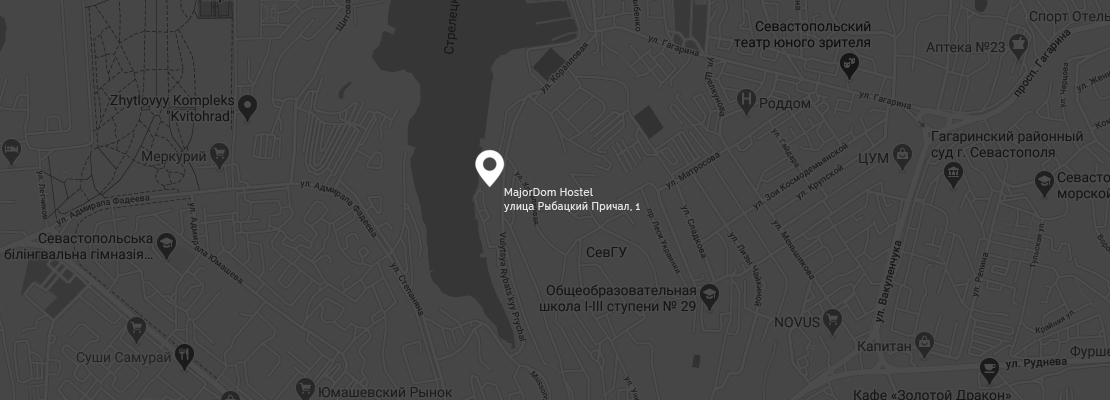
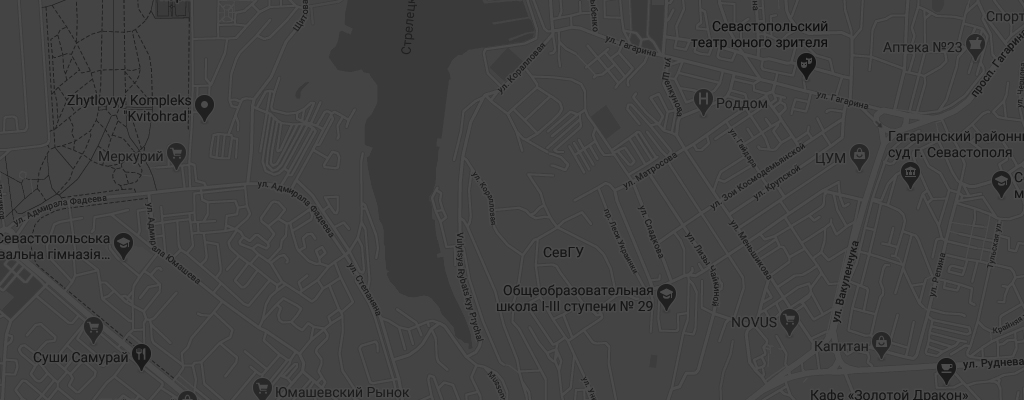
refactor: upload project

diff --git a/css/style.min.css b/css/style.min.css
@@ -1,1 +1,1 @@
-html{-webkit-box-sizing:border-box;box-sizing:border-box}*,*::after,*::before{-webkit-box-sizing:inherit;box-sizing:inherit}ul[class],ol[class]{padding:0}body,h1,h2,h3,h4,h5,h6,p,ul,ol,li,figure,figcaption,blockquote,dl,dd{margin:0}ul[class]{list-style:none}img{max-width:100%;display:block}input,button,textarea,select{margin:0;font:inherit}a{text-decoration:none}html,body{height:100%;scroll-behavior:smooth}body{min-width:320px;font-family:"Raleway", sans-serif;font-size:14px;line-height:25px;color:#333;letter-spacing:0.05em;overflow-x:hidden}a{color:#333}main{width:100%}.wrapper{margin:0 auto;width:100%;max-width:1110px}.section{margin:0 auto;padding:0;width:100%;height:100vh}.section__title{font-weight:700;font-size:24px;line-height:180%}.section__subtitle{font-size:10px;line-height:180%}.footer{padding:40px 0;background-color:#000;color:gray}.footer .footer__inner{margin:0 auto;max-width:1110px;display:-webkit-box;display:-ms-flexbox;display:flex;-webkit-box-pack:justify;-ms-flex-pack:justify;justify-content:space-between;-webkit-box-align:center;-ms-flex-align:center;align-items:center}.footer .footer__menu{text-align:right}.footer .footer-nav__list{display:-webkit-box;display:-ms-flexbox;display:flex}.footer .footer-nav__item{margin-left:40px}.footer .footer-nav__item:first-child{margin-left:0}.footer .footer-nav__link{font-size:12px;line-height:17px;color:#fff}.footer .footer__copy{padding-top:6px;font-size:12px;line-height:14px}input{padding:14px 10px;border:1px solid #333;background-color:transparent;max-width:350px;color:#fff;-webkit-transition:all 300ms;-o-transition:all 300ms;transition:all 300ms}input::-webkit-input-placeholder{font-family:"Raleway", sans-serif;font-weight:400;font-size:14px;line-height:25px;letter-spacing:0.05em;color:#ccc}input::-moz-placeholder{font-family:"Raleway", sans-serif;font-weight:400;font-size:14px;line-height:25px;letter-spacing:0.05em;color:#ccc}input:-ms-input-placeholder{font-family:"Raleway", sans-serif;font-weight:400;font-size:14px;line-height:25px;letter-spacing:0.05em;color:#ccc}input::-ms-input-placeholder{font-family:"Raleway", sans-serif;font-weight:400;font-size:14px;line-height:25px;letter-spacing:0.05em;color:#ccc}input::placeholder{font-family:"Raleway", sans-serif;font-weight:400;font-size:14px;line-height:25px;letter-spacing:0.05em;color:#ccc}input:hover{border-color:gray}input:valid{border-color:#ccc}input[type="checkbox"]{position:absolute;z-index:-1;opacity:0}input[type="checkbox"]+label{position:relative;display:block;-webkit-user-select:none;-moz-user-select:none;-ms-user-select:none;user-select:none;padding-left:22px}input[type="checkbox"]+label::before{position:absolute;content:"";top:0;left:0;width:12px;height:12px;border:1px solid #333;background-color:transparent;cursor:pointer}input[type="checkbox"]:hover+label::before{border-color:gray}input[type="checkbox"]:checked+label::before{border-color:#fff;background-color:#fff;-webkit-box-shadow:inset 0 0 0 2px #000;box-shadow:inset 0 0 0 2px #000}button,.link-btn{display:block;padding:18px 32px;border:1px solid transparent;background-color:#ccc;width:-webkit-max-content;width:-moz-max-content;width:max-content;line-height:16px;letter-spacing:0.1em;text-transform:uppercase;-webkit-transition:all 300ms;-o-transition:all 300ms;transition:all 300ms;cursor:pointer}button:hover,.link-btn:hover{background-color:#fff;color:#000}.link-btn{border:1px solid #000;background-color:#fff;color:#000}.link-btn:hover{background-color:#000;color:#fff}@-webkit-keyframes splide-loading{0%{-webkit-transform:rotateZ(0);transform:rotateZ(0)}100%{-webkit-transform:rotateZ(360deg);transform:rotateZ(360deg)}}@keyframes splide-loading{0%{-webkit-transform:rotateZ(0);transform:rotateZ(0)}100%{-webkit-transform:rotateZ(360deg);transform:rotateZ(360deg)}}.splide__container{position:relative;-webkit-box-sizing:border-box;box-sizing:border-box}.splide__list{margin:0 !important;padding:0 !important;width:-webkit-max-content;width:-moz-max-content;width:max-content;will-change:transform}.splide.is-active .splide__list{display:-webkit-box;display:-ms-flexbox;display:flex}.splide__pagination{display:-webkit-inline-box;display:-ms-inline-flexbox;display:inline-flex;-webkit-box-align:center;-ms-flex-align:center;align-items:center;width:100%;-ms-flex-wrap:wrap;flex-wrap:wrap;-webkit-box-pack:center;-ms-flex-pack:center;justify-content:center;margin:0}.splide__pagination li{list-style-type:none;display:inline-block;line-height:1;margin:0}.splide{position:relative;visibility:hidden;outline:none}.splide__slide{position:relative;-webkit-box-sizing:border-box;box-sizing:border-box;list-style-type:none !important;margin:0;outline:none;-ms-flex-negative:0;flex-shrink:0;overflow:hidden}.splide__slide img{vertical-align:bottom}.splide__slider{position:relative}.splide__spinner{position:absolute;top:0;left:0;right:0;bottom:0;margin:auto;display:inline-block;width:20px;height:20px;border-radius:50%;border:2px solid #999;border-left-color:transparent;-webkit-animation:splide-loading 1s infinite linear;animation:splide-loading 1s infinite linear}.splide__track{position:relative;z-index:0;overflow:hidden}.splide--draggable>.splide__track>.splide__list>.splide__slide{-webkit-user-select:none;-moz-user-select:none;-ms-user-select:none;user-select:none}.splide--fade>.splide__track>.splide__list{display:block}.splide--fade>.splide__track>.splide__list>.splide__slide{position:absolute;top:0;left:0;z-index:0;opacity:0}.splide--fade>.splide__track>.splide__list>.splide__slide.is-active{position:relative;z-index:1;opacity:1}.splide--rtl{direction:rtl}.splide--ttb>.splide__track>.splide__list{display:block}.splide--ttb>.splide__pagination{width:auto}.header{width:100%;height:100vh}.header .header__nav{position:absolute;content:"";left:0;right:0;top:20px;background-color:transparent;-webkit-transition:background-color 300ms;-o-transition:background-color 300ms;transition:background-color 300ms;z-index:1}.header .header__nav-wrapper{display:-webkit-box;display:-ms-flexbox;display:flex;-webkit-box-pack:justify;-ms-flex-pack:justify;justify-content:space-between;-webkit-box-align:center;-ms-flex-align:center;align-items:center;margin:0 auto;padding:20px 0;width:100%;max-width:1110px}@media screen and (max-width: 1440px), (max-device-width: 1440px){.header .header__nav-wrapper{padding:10px 0}}.header .header__nav.fixed{position:fixed;top:0;background-color:rgba(0,0,0,0.85)}.header .header-menu__list{display:-webkit-box;display:-ms-flexbox;display:flex}.header .header-menu__list .header-menu__item{margin-right:50px;line-height:140%}.header .header-menu__list .header-menu__item:last-child{margin-right:0}.header .header-menu__list .header-menu__link{position:relative;color:#fff}.header .header-menu__list .header-menu__link::before{position:absolute;content:"";bottom:-8px;right:0;width:0;height:2px;background-color:#fff;-webkit-transition:width 300ms cubic-bezier(0.25, 1, 0.5, 1);-o-transition:width 300ms cubic-bezier(0.25, 1, 0.5, 1);transition:width 300ms cubic-bezier(0.25, 1, 0.5, 1)}.header .header-menu__list .header-menu__link:hover::before{left:0;right:auto;width:100%}.header .header__caption{position:absolute;content:"";left:0;right:0;bottom:40px;margin:0 auto;padding:20px 0;width:100%;max-width:1110px;display:-webkit-box;display:-ms-flexbox;display:flex;-webkit-box-pack:justify;-ms-flex-pack:justify;justify-content:space-between;-webkit-box-align:start;-ms-flex-align:start;align-items:flex-start}.header .lang__list{display:-webkit-box;display:-ms-flexbox;display:flex}.header .lang__list .lang__item{margin-right:12px}.header .lang__list .lang__item:last-child{margin-right:0}.header .lang__list .lang__link{color:#fff}.header .lang__list .active-lang{color:gray;cursor:default}.header .header__slider{position:relative;background-color:#000;width:100%}.header .splide__slide{background-repeat:no-repeat;background-position:center;background-size:cover;height:100vh}.header .header__inner{display:-webkit-box;display:-ms-flexbox;display:flex;-webkit-box-orient:vertical;-webkit-box-direction:normal;-ms-flex-direction:column;flex-direction:column;-webkit-box-pack:center;-ms-flex-pack:center;justify-content:center;margin:0 auto;padding:120px 0;width:100%;max-width:1110px;height:100%}.header .header__title{margin-bottom:90px;font-weight:700;font-size:72px;line-height:85px;color:#fff}.header .header__btn{display:block;padding:18px 32px;background-color:#ccc;max-width:-webkit-max-content;max-width:-moz-max-content;max-width:max-content;line-height:16px;letter-spacing:0.1em;text-transform:uppercase;-webkit-transition:all 300ms;-o-transition:all 300ms;transition:all 300ms}.header .header__btn:hover{background-color:#fff;color:#000}.header .splide__pagination{position:absolute;content:"";top:50%;bottom:0;right:calc((100% - 1110px) / 2);display:-webkit-box;display:-ms-flexbox;display:flex;-webkit-box-orient:vertical;-webkit-box-direction:normal;-ms-flex-direction:column;flex-direction:column;width:-webkit-max-content;width:-moz-max-content;width:max-content;height:-webkit-max-content;height:-moz-max-content;height:max-content;gap:20px;-webkit-transform:translateY(-50%);-ms-transform:translateY(-50%);transform:translateY(-50%)}.header .splide__pagination__page{margin:0;padding:0;background-color:transparent;background-image:url(../images/icons/round.svg);background-repeat:no-repeat;background-position:center;height:18px;width:18px;-webkit-transition:background-image 200ms;-o-transition:background-image 200ms;transition:background-image 200ms}.header .splide__pagination__page:hover{background-image:url(../images/icons/circle.svg)}.header .splide__pagination__page.is-active{position:relative;background-color:transparent;background-image:url(../images/icons/circle.svg);background-repeat:no-repeat;background-position:center;display:-webkit-box;display:-ms-flexbox;display:flex;border:0}.header .splide__pagination__page.is-active::before{position:absolute;content:"";top:0;left:0;background-color:transparent;border:1px solid rgba(255,255,255,0.2);border-radius:50%;width:18px;height:18px}.header .splide__pagination__page .loading{stroke-dashoffset:0;stroke-dasharray:54;-webkit-animation:loading 10s linear;animation:loading 10s linear}@-webkit-keyframes loading{from{stroke-dashoffset:54}to{stroke-dashoffset:0}}@keyframes loading{from{stroke-dashoffset:54}to{stroke-dashoffset:0}}.social__list{display:-webkit-box;display:-ms-flexbox;display:flex;-webkit-box-align:end;-ms-flex-align:end;align-items:flex-end;-webkit-box-pack:justify;-ms-flex-pack:justify;justify-content:space-between;gap:12px;width:-webkit-max-content;width:-moz-max-content;width:max-content}.social__list .social__link{display:block;max-width:24px;max-height:24px;opacity:0.5;-webkit-transition:opacity 300ms;-o-transition:opacity 300ms;transition:opacity 300ms}.social__list .social__link:hover{opacity:1}.about,.location,.rooms,.services,.conditions{max-width:1110px}.about{position:relative;display:-webkit-box;display:-ms-flexbox;display:flex;-webkit-box-pack:justify;-ms-flex-pack:justify;justify-content:space-between;-webkit-box-align:center;-ms-flex-align:center;align-items:center}.about .about__inner{display:-webkit-box;display:-ms-flexbox;display:flex;-webkit-box-orient:vertical;-webkit-box-direction:normal;-ms-flex-direction:column;flex-direction:column}.about .about__content{margin:45px 0;display:-webkit-box;display:-ms-flexbox;display:flex;-webkit-box-orient:vertical;-webkit-box-direction:normal;-ms-flex-direction:column;flex-direction:column;-webkit-box-pack:center;-ms-flex-pack:center;justify-content:center;max-width:445px}.about .about__text{margin-bottom:25px}.about .about__text:last-child{margin-bottom:0}.about .about__image{display:-webkit-box;display:-ms-flexbox;display:flex;-ms-flex-wrap:wrap;flex-wrap:wrap;gap:19px;max-width:445px}.about .scroll-to{position:absolute;content:"";left:50%;bottom:120px;-webkit-transform:translateX(-50%);-ms-transform:translateX(-50%);transform:translateX(-50%);-webkit-animation-name:down;animation-name:down;-webkit-animation-duration:1000ms;animation-duration:1000ms;-webkit-animation-delay:1s;animation-delay:1s;-webkit-animation-iteration-count:infinite;animation-iteration-count:infinite;-webkit-animation-timing-function:cubic-bezier(0.25, 0.46, 0.45, 0.94);animation-timing-function:cubic-bezier(0.25, 0.46, 0.45, 0.94);-webkit-animation-direction:alternate;animation-direction:alternate}.about .scroll-to .scroll-to__link{display:-webkit-box;display:-ms-flexbox;display:flex;-webkit-box-orient:vertical;-webkit-box-direction:normal;-ms-flex-direction:column;flex-direction:column;-webkit-box-align:center;-ms-flex-align:center;align-items:center}@-webkit-keyframes down{from{bottom:140px;opacity:0}to{opacity:1}}@keyframes down{from{bottom:140px;opacity:0}to{opacity:1}}.location{display:-webkit-box;display:-ms-flexbox;display:flex;-webkit-box-orient:vertical;-webkit-box-direction:normal;-ms-flex-direction:column;flex-direction:column;-webkit-box-pack:center;-ms-flex-pack:center;justify-content:center}.location .location__content{padding:30px 0;-webkit-column-count:2;-moz-column-count:2;column-count:2}@media screen and (max-width: 1440px), (max-device-width: 1440px){.location .location__content{padding:20px 0}}.location .desc-box{margin:0 auto;padding:30px 0 30px 64px;background-repeat:no-repeat;background-position:left 0 top 53px;max-width:-webkit-max-content;max-width:-moz-max-content;max-width:max-content}@media screen and (max-width: 1440px), (max-device-width: 1440px){.location .desc-box{padding:10px 0 10px 64px;background-position:left 0 top 33px}}.location .desc-box span{font-weight:700;font-size:24px;line-height:43px}.location .location__map{max-height:400px}.rooms{display:-webkit-box;display:-ms-flexbox;display:flex;-webkit-box-orient:vertical;-webkit-box-direction:normal;-ms-flex-direction:column;flex-direction:column;-webkit-box-pack:center;-ms-flex-pack:center;justify-content:center}.rooms .rooms__title{padding:100px 0 50px 0;display:-webkit-box;display:-ms-flexbox;display:flex;-webkit-box-align:center;-ms-flex-align:center;align-items:center;-webkit-box-pack:justify;-ms-flex-pack:justify;justify-content:space-between}@media screen and (max-width: 1440px), (max-device-width: 1440px){.rooms .rooms__title{padding:60px 0 40px 0}}.rooms .splide__track{overflow:visible}.rooms .splide__list{gap:60px}.rooms .descr__title{font-weight:500;font-size:16px;line-height:29px;padding:20px 0 5px}@media screen and (max-width: 1440px), (max-device-width: 1440px){.rooms .descr__title{padding:10px 0 5px;line-height:22px}}.rooms .descr__list{padding-bottom:20px;-webkit-transition:all 300ms;-o-transition:all 300ms;transition:all 300ms}@media screen and (max-width: 1440px), (max-device-width: 1440px){.rooms .descr__list{display:-webkit-box;display:-ms-flexbox;display:flex;-ms-flex-wrap:wrap;flex-wrap:wrap;-webkit-box-align:end;-ms-flex-align:end;align-items:flex-end}}@media screen and (max-width: 1440px), (max-device-width: 1440px){.rooms .descr__item{position:relative;padding-right:12px;margin-right:8px;-webkit-transition:all 300ms;-o-transition:all 300ms;transition:all 300ms}.rooms .descr__item::before{position:absolute;content:"";top:50%;right:0;width:4px;height:4px;background-color:rgba(0,0,0,0.2);border-radius:50%;-webkit-transform:translateY(-50%);-ms-transform:translateY(-50%);transform:translateY(-50%)}.rooms .descr__item:last-child::before{display:none}}.rooms .splide__arrows{display:-webkit-box;display:-ms-flexbox;display:flex;-webkit-box-pack:center;-ms-flex-pack:center;justify-content:center;margin-top:20px}@media screen and (max-width: 1440px), (max-device-width: 1440px){.rooms .splide__arrows{margin-top:30px}}.rooms .splide__arrow{margin:0 10px;padding:20px;border:1px solid #fff;background-color:#fff}.rooms .splide__arrow:hover{border:1px solid #000}.rooms .splide__arrow--prev,.rooms .splide__arrow--next{background-image:url(../images/icons/arrow.svg);background-repeat:no-repeat;background-position:center}.rooms .splide__arrow--prev{-webkit-transform:rotate(180deg);-ms-transform:rotate(180deg);transform:rotate(180deg)}.rooms .splide__arrow:disabled{opacity:0.5}.rooms .splide__arrow:hover:disabled{opacity:0.5;border:1px solid transparent;cursor:not-allowed}.services{display:-webkit-box;display:-ms-flexbox;display:flex;-webkit-box-orient:vertical;-webkit-box-direction:normal;-ms-flex-direction:column;flex-direction:column;-webkit-box-pack:center;-ms-flex-pack:center;justify-content:center}.services .services__title{padding-bottom:100px;display:-webkit-box;display:-ms-flexbox;display:flex;-webkit-box-align:start;-ms-flex-align:start;align-items:flex-start;-webkit-box-pack:justify;-ms-flex-pack:justify;justify-content:space-between}@media screen and (max-width: 1440px), (max-device-width: 1440px){.services .services__title{padding:60px 0 50px}}.services .services__descr{max-width:445px}.services .services__content{-webkit-column-gap:30px;-moz-column-gap:30px;column-gap:30px;-webkit-column-count:3;-moz-column-count:3;column-count:3}.services .services__list{padding-bottom:26px;max-width:350px;-webkit-column-break-inside:avoid;-moz-column-break-inside:avoid;break-inside:avoid-column}.services .services__list:last-child{padding:0}.services .list-heading{font-weight:500;font-size:16px;line-height:29px;margin-bottom:4px}.conditions{display:-webkit-box;display:-ms-flexbox;display:flex;-webkit-box-pack:justify;-ms-flex-pack:justify;justify-content:space-between;-webkit-box-align:center;-ms-flex-align:center;align-items:center}.conditions .conditions__inner{display:-webkit-box;display:-ms-flexbox;display:flex;-webkit-box-align:start;-ms-flex-align:start;align-items:flex-start;-webkit-box-pack:justify;-ms-flex-pack:justify;justify-content:space-between;width:100%}.conditions .conditions__content{display:-webkit-box;display:-ms-flexbox;display:flex;-webkit-box-orient:vertical;-webkit-box-direction:normal;-ms-flex-direction:column;flex-direction:column;-webkit-box-align:center;-ms-flex-align:center;align-items:center;gap:60px 0;width:100%}.conditions .conditions__title{-ms-flex-item-align:start;align-self:flex-start;margin-bottom:20px}.conditions .conditions__content,.conditions .conditions__descr{max-width:445px}.conditions .conditions__descr p{margin-bottom:24px}.conditions .conditions__descr p:last-child{margin-bottom:0}.conditions .conditions-time,.conditions .conditions-old{display:-webkit-box;display:-ms-flexbox;display:flex;-webkit-box-align:center;-ms-flex-align:center;align-items:center;-ms-flex-pack:distribute;justify-content:space-around;width:100%}.conditions .desc-box span{font-weight:700;font-size:24px;line-height:43px}.conditions .desc-box span .time-sub{font-weight:700;font-size:14px;line-height:25px;text-decoration:underline}.feedback{background-image:url(../images/feedback-bg.jpg);background-repeat:no-repeat;background-position:center;background-size:cover}.feedback .feedback__wrapper{margin:0 auto;display:-webkit-box;display:-ms-flexbox;display:flex;-webkit-box-align:center;-ms-flex-align:center;align-items:center;-webkit-box-pack:center;-ms-flex-pack:center;justify-content:center;max-width:1110px;height:100%}.feedback .feedback__inner{display:-webkit-box;display:-ms-flexbox;display:flex;-webkit-box-align:start;-ms-flex-align:start;align-items:flex-start;-webkit-box-pack:justify;-ms-flex-pack:justify;justify-content:space-between;width:100%}.feedback .feedback__request,.feedback .feedback__contacts{display:-webkit-box;display:-ms-flexbox;display:flex;-webkit-box-orient:vertical;-webkit-box-direction:normal;-ms-flex-direction:column;flex-direction:column;width:100%;max-width:445px}.feedback .feedback__title{margin-bottom:50px;font-weight:500;font-size:18px;line-height:32px;color:#fff}.feedback .feedback__form{display:-webkit-box;display:-ms-flexbox;display:flex;-webkit-box-orient:vertical;-webkit-box-direction:normal;-ms-flex-direction:column;flex-direction:column;gap:25px;max-width:350px}.feedback .feedback__form-btn{margin-top:25px}.feedback .feedback__privacy{font-size:10px;line-height:14px;color:#ccc}.feedback .feedback__privacy a{color:#ccc;text-decoration:underline}.feedback .feedback__privacy a:hover{color:#fff}.feedback .contacts__content,.feedback .contacts__content a{color:#fff;font-style:normal}.feedback .contacts__content p,.feedback .contacts__content a p{margin-bottom:30px}.feedback .contacts__content p:last-child,.feedback .contacts__content a p:last-child{margin-bottom:0}.feedback .contacts__title{font-weight:500;font-size:16px;line-height:29px}.feedback .contacts__social{margin-top:50px}
+html{-webkit-box-sizing:border-box;box-sizing:border-box}*,*::after,*::before{-webkit-box-sizing:inherit;box-sizing:inherit}ul[class],ol[class]{padding:0}body,h1,h2,h3,h4,h5,h6,p,ul,ol,li,figure,figcaption,blockquote,dl,dd{margin:0}ul[class]{list-style:none}img{max-width:100%;display:block}input,button,textarea,select{margin:0;font:inherit}a{text-decoration:none}html,body{height:100%;scroll-behavior:smooth}body{min-width:320px;font-family:"Raleway", sans-serif;font-size:14px;line-height:25px;color:#333;letter-spacing:0.05em;overflow-x:hidden}a{color:#333}main{width:100%}.wrapper{margin:0 auto;width:100%;max-width:1110px}.section{margin:0 auto;padding:0;width:100%;height:100vh}.section__title{font-weight:700;font-size:24px;line-height:180%}.section__subtitle{font-size:10px;line-height:180%}.footer{padding:40px 0;background-color:#000;color:gray}.footer .footer__inner{margin:0 auto;max-width:1110px;display:-webkit-box;display:-ms-flexbox;display:flex;-webkit-box-pack:justify;-ms-flex-pack:justify;justify-content:space-between;-webkit-box-align:center;-ms-flex-align:center;align-items:center}.footer .footer__menu{text-align:right}.footer .footer-nav__list{display:-webkit-box;display:-ms-flexbox;display:flex}.footer .footer-nav__item{margin-left:40px}.footer .footer-nav__item:first-child{margin-left:0}.footer .footer-nav__link{font-size:12px;line-height:17px;color:#fff}.footer .footer__copy{padding-top:6px;font-size:12px;line-height:14px}input{padding:14px 10px;border:1px solid #333;background-color:transparent;max-width:350px;color:#fff;-webkit-transition:all 300ms;-o-transition:all 300ms;transition:all 300ms}input::-webkit-input-placeholder{font-family:"Raleway", sans-serif;font-weight:400;font-size:14px;line-height:25px;letter-spacing:0.05em;color:#ccc}input::-moz-placeholder{font-family:"Raleway", sans-serif;font-weight:400;font-size:14px;line-height:25px;letter-spacing:0.05em;color:#ccc}input:-ms-input-placeholder{font-family:"Raleway", sans-serif;font-weight:400;font-size:14px;line-height:25px;letter-spacing:0.05em;color:#ccc}input::-ms-input-placeholder{font-family:"Raleway", sans-serif;font-weight:400;font-size:14px;line-height:25px;letter-spacing:0.05em;color:#ccc}input::placeholder{font-family:"Raleway", sans-serif;font-weight:400;font-size:14px;line-height:25px;letter-spacing:0.05em;color:#ccc}input:hover{border-color:gray}input:valid{border-color:#ccc}input[type="checkbox"]{position:absolute;z-index:-1;opacity:0}input[type="checkbox"]+label{position:relative;display:block;-webkit-user-select:none;-moz-user-select:none;-ms-user-select:none;user-select:none;padding-left:22px}input[type="checkbox"]+label::before{position:absolute;content:"";top:0;left:0;width:12px;height:12px;border:1px solid #333;background-color:transparent;cursor:pointer}input[type="checkbox"]:hover+label::before{border-color:gray}input[type="checkbox"]:checked+label::before{border-color:#fff;background-color:#fff;-webkit-box-shadow:inset 0 0 0 2px #000;box-shadow:inset 0 0 0 2px #000}button,.link-btn{display:block;padding:18px 32px;border:1px solid transparent;background-color:#ccc;width:-webkit-max-content;width:-moz-max-content;width:max-content;line-height:16px;letter-spacing:0.1em;text-transform:uppercase;-webkit-transition:all 300ms;-o-transition:all 300ms;transition:all 300ms;cursor:pointer}button:hover,.link-btn:hover{background-color:#fff;color:#000}.link-btn{border:1px solid #000;background-color:#fff;color:#000}.link-btn:hover{background-color:#000;color:#fff}@-webkit-keyframes splide-loading{0%{-webkit-transform:rotateZ(0);transform:rotateZ(0)}100%{-webkit-transform:rotateZ(360deg);transform:rotateZ(360deg)}}@keyframes splide-loading{0%{-webkit-transform:rotateZ(0);transform:rotateZ(0)}100%{-webkit-transform:rotateZ(360deg);transform:rotateZ(360deg)}}.splide__container{position:relative;-webkit-box-sizing:border-box;box-sizing:border-box}.splide__list{margin:0 !important;padding:0 !important;width:-webkit-max-content;width:-moz-max-content;width:max-content;will-change:transform}.splide.is-active .splide__list{display:-webkit-box;display:-ms-flexbox;display:flex}.splide__pagination{display:-webkit-inline-box;display:-ms-inline-flexbox;display:inline-flex;-webkit-box-align:center;-ms-flex-align:center;align-items:center;width:100%;-ms-flex-wrap:wrap;flex-wrap:wrap;-webkit-box-pack:center;-ms-flex-pack:center;justify-content:center;margin:0}.splide__pagination li{list-style-type:none;display:inline-block;line-height:1;margin:0}.splide{position:relative;visibility:hidden;outline:none}.splide__slide{position:relative;-webkit-box-sizing:border-box;box-sizing:border-box;list-style-type:none !important;margin:0;outline:none;-ms-flex-negative:0;flex-shrink:0;overflow:hidden}.splide__slide img{vertical-align:bottom}.splide__slider{position:relative}.splide__spinner{position:absolute;top:0;left:0;right:0;bottom:0;margin:auto;display:inline-block;width:20px;height:20px;border-radius:50%;border:2px solid #999;border-left-color:transparent;-webkit-animation:splide-loading 1s infinite linear;animation:splide-loading 1s infinite linear}.splide__track{position:relative;z-index:0;overflow:hidden}.splide--draggable>.splide__track>.splide__list>.splide__slide{-webkit-user-select:none;-moz-user-select:none;-ms-user-select:none;user-select:none}.splide--fade>.splide__track>.splide__list{display:block}.splide--fade>.splide__track>.splide__list>.splide__slide{position:absolute;top:0;left:0;z-index:0;opacity:0}.splide--fade>.splide__track>.splide__list>.splide__slide.is-active{position:relative;z-index:1;opacity:1}.splide--rtl{direction:rtl}.splide--ttb>.splide__track>.splide__list{display:block}.splide--ttb>.splide__pagination{width:auto}.header{width:100%;height:100vh}.header .header__nav{position:absolute;content:"";left:0;right:0;top:20px;background-color:transparent;-webkit-transition:background-color 300ms;-o-transition:background-color 300ms;transition:background-color 300ms;z-index:1}.header .header__nav-wrapper{display:-webkit-box;display:-ms-flexbox;display:flex;-webkit-box-pack:justify;-ms-flex-pack:justify;justify-content:space-between;-webkit-box-align:center;-ms-flex-align:center;align-items:center;margin:0 auto;padding:20px 0;width:100%;max-width:1110px}@media screen and (max-width: 1440px), (max-device-width: 1440px){.header .header__nav-wrapper{padding:10px 0}}.header .header__nav.fixed{position:fixed;top:0;background-color:rgba(0,0,0,0.85)}.header .header-menu__list{display:-webkit-box;display:-ms-flexbox;display:flex}.header .header-menu__list .header-menu__item{margin-right:50px;line-height:140%}.header .header-menu__list .header-menu__item:last-child{margin-right:0}.header .header-menu__list .header-menu__link{position:relative;color:#fff}.header .header-menu__list .header-menu__link::before{position:absolute;content:"";bottom:-8px;right:0;width:0;height:2px;background-color:#fff;-webkit-transition:width 300ms cubic-bezier(0.25, 1, 0.5, 1);-o-transition:width 300ms cubic-bezier(0.25, 1, 0.5, 1);transition:width 300ms cubic-bezier(0.25, 1, 0.5, 1)}.header .header-menu__list .header-menu__link:hover::before{left:0;right:auto;width:100%}.header .header__caption{position:absolute;content:"";left:0;right:0;bottom:40px;margin:0 auto;padding:20px 0;width:100%;max-width:1110px;display:-webkit-box;display:-ms-flexbox;display:flex;-webkit-box-pack:justify;-ms-flex-pack:justify;justify-content:space-between;-webkit-box-align:start;-ms-flex-align:start;align-items:flex-start}.header .lang__list{display:-webkit-box;display:-ms-flexbox;display:flex}.header .lang__list .lang__item{margin-right:12px}.header .lang__list .lang__item:last-child{margin-right:0}.header .lang__list .lang__link{color:#fff}.header .lang__list .active-lang{color:gray;cursor:default}.header .header__slider{position:relative;background-color:#000;width:100%}.header .splide__slide{background-repeat:no-repeat;background-position:center;background-size:cover;height:100vh}.header .header__inner{display:-webkit-box;display:-ms-flexbox;display:flex;-webkit-box-orient:vertical;-webkit-box-direction:normal;-ms-flex-direction:column;flex-direction:column;-webkit-box-pack:center;-ms-flex-pack:center;justify-content:center;margin:0 auto;padding:120px 0;width:100%;max-width:1110px;height:100%}.header .header__title{margin-bottom:90px;font-weight:700;font-size:72px;line-height:85px;color:#fff}.header .header__btn{display:block;padding:18px 32px;background-color:#ccc;max-width:-webkit-max-content;max-width:-moz-max-content;max-width:max-content;line-height:16px;letter-spacing:0.1em;text-transform:uppercase;-webkit-transition:all 300ms;-o-transition:all 300ms;transition:all 300ms}.header .header__btn:hover{background-color:#fff;color:#000}.header .splide__pagination{position:absolute;content:"";top:50%;bottom:0;right:calc((100% - 1110px) / 2);display:-webkit-box;display:-ms-flexbox;display:flex;-webkit-box-orient:vertical;-webkit-box-direction:normal;-ms-flex-direction:column;flex-direction:column;width:-webkit-max-content;width:-moz-max-content;width:max-content;height:-webkit-max-content;height:-moz-max-content;height:max-content;gap:20px;-webkit-transform:translateY(-50%);-ms-transform:translateY(-50%);transform:translateY(-50%)}.header .splide__pagination__page{margin:0;padding:0;background-color:transparent;background-image:url(../images/icons/round.svg);background-repeat:no-repeat;background-position:center;height:18px;width:18px;-webkit-transition:background-image 200ms;-o-transition:background-image 200ms;transition:background-image 200ms}.header .splide__pagination__page:hover{background-image:url(../images/icons/circle.svg)}.header .splide__pagination__page.is-active{position:relative;background-color:transparent;background-image:url(../images/icons/circle.svg);background-repeat:no-repeat;background-position:center;display:-webkit-box;display:-ms-flexbox;display:flex;border:0}.header .splide__pagination__page.is-active::before{position:absolute;content:"";top:0;left:0;background-color:transparent;border:1px solid rgba(255,255,255,0.2);border-radius:50%;width:18px;height:18px}.header .splide__pagination__page .loading{stroke-dashoffset:0;stroke-dasharray:54;-webkit-animation:loading 10s linear;animation:loading 10s linear}@-webkit-keyframes loading{from{stroke-dashoffset:54}to{stroke-dashoffset:0}}@keyframes loading{from{stroke-dashoffset:54}to{stroke-dashoffset:0}}.social__list{display:-webkit-box;display:-ms-flexbox;display:flex;-webkit-box-align:end;-ms-flex-align:end;align-items:flex-end;-webkit-box-pack:justify;-ms-flex-pack:justify;justify-content:space-between;gap:12px;width:-webkit-max-content;width:-moz-max-content;width:max-content}.social__list .social__link{display:block;max-width:24px;max-height:24px;opacity:0.5;-webkit-transition:opacity 300ms;-o-transition:opacity 300ms;transition:opacity 300ms}.social__list .social__link:hover{opacity:1}.about,.location,.rooms,.services,.conditions{max-width:1110px}.about{position:relative;display:-webkit-box;display:-ms-flexbox;display:flex;-webkit-box-pack:justify;-ms-flex-pack:justify;justify-content:space-between;-webkit-box-align:center;-ms-flex-align:center;align-items:center}.about .about__inner{display:-webkit-box;display:-ms-flexbox;display:flex;-webkit-box-orient:vertical;-webkit-box-direction:normal;-ms-flex-direction:column;flex-direction:column}.about .about__content{margin:45px 0;display:-webkit-box;display:-ms-flexbox;display:flex;-webkit-box-orient:vertical;-webkit-box-direction:normal;-ms-flex-direction:column;flex-direction:column;-webkit-box-pack:center;-ms-flex-pack:center;justify-content:center;max-width:445px}.about .about__text{margin-bottom:25px}.about .about__text:last-child{margin-bottom:0}.about .about__image{display:-webkit-box;display:-ms-flexbox;display:flex;-ms-flex-wrap:wrap;flex-wrap:wrap;gap:19px;max-width:445px}.about .scroll-to{position:absolute;content:"";left:50%;bottom:120px;-webkit-transform:translateX(-50%);-ms-transform:translateX(-50%);transform:translateX(-50%);-webkit-animation-name:down;animation-name:down;-webkit-animation-duration:1000ms;animation-duration:1000ms;-webkit-animation-delay:1s;animation-delay:1s;-webkit-animation-iteration-count:infinite;animation-iteration-count:infinite;-webkit-animation-timing-function:cubic-bezier(0.25, 0.46, 0.45, 0.94);animation-timing-function:cubic-bezier(0.25, 0.46, 0.45, 0.94);-webkit-animation-direction:alternate;animation-direction:alternate}.about .scroll-to .scroll-to__link{display:-webkit-box;display:-ms-flexbox;display:flex;-webkit-box-orient:vertical;-webkit-box-direction:normal;-ms-flex-direction:column;flex-direction:column;-webkit-box-align:center;-ms-flex-align:center;align-items:center}@-webkit-keyframes down{from{bottom:140px;opacity:0}to{opacity:1}}@keyframes down{from{bottom:140px;opacity:0}to{opacity:1}}.location{display:-webkit-box;display:-ms-flexbox;display:flex;-webkit-box-orient:vertical;-webkit-box-direction:normal;-ms-flex-direction:column;flex-direction:column;-webkit-box-pack:center;-ms-flex-pack:center;justify-content:center}.location .location__content{padding:30px 0;-webkit-column-count:2;-moz-column-count:2;column-count:2}@media screen and (max-width: 1440px), (max-device-width: 1440px){.location .location__content{padding:20px 0}}.location .desc-box{margin:0 auto;padding:30px 0 30px 64px;background-repeat:no-repeat;background-position:left 0 top 53px;max-width:-webkit-max-content;max-width:-moz-max-content;max-width:max-content}@media screen and (max-width: 1440px), (max-device-width: 1440px){.location .desc-box{padding:10px 0 10px 64px;background-position:left 0 top 33px}}.location .desc-box span{font-weight:700;font-size:24px;line-height:43px}.location .location__map{position:relative;max-height:400px}.location .location__map .location__map-target{position:absolute;content:"";top:185px;left:460px;font-size:10px;line-height:14px;color:#fff}.location .location__map .location__map-target::before{position:absolute;content:"";bottom:75%;right:90%;width:48px;height:48px;background-image:url(../images/icons/location.svg);background-repeat:no-repeat;background-position:center;background-size:cover}.rooms{display:-webkit-box;display:-ms-flexbox;display:flex;-webkit-box-orient:vertical;-webkit-box-direction:normal;-ms-flex-direction:column;flex-direction:column;-webkit-box-pack:center;-ms-flex-pack:center;justify-content:center}.rooms .rooms__title{padding:100px 0 50px 0;display:-webkit-box;display:-ms-flexbox;display:flex;-webkit-box-align:center;-ms-flex-align:center;align-items:center;-webkit-box-pack:justify;-ms-flex-pack:justify;justify-content:space-between}@media screen and (max-width: 1440px), (max-device-width: 1440px){.rooms .rooms__title{padding:60px 0 40px 0}}.rooms .splide__track{overflow:visible}.rooms .splide__list{gap:60px}.rooms .descr__title{font-weight:500;font-size:16px;line-height:29px;padding:20px 0 5px}@media screen and (max-width: 1440px), (max-device-width: 1440px){.rooms .descr__title{padding:10px 0 5px;line-height:22px}}.rooms .descr__list{padding-bottom:20px;-webkit-transition:all 300ms;-o-transition:all 300ms;transition:all 300ms}@media screen and (max-width: 1440px), (max-device-width: 1440px){.rooms .descr__list{display:-webkit-box;display:-ms-flexbox;display:flex;-ms-flex-wrap:wrap;flex-wrap:wrap;-webkit-box-align:end;-ms-flex-align:end;align-items:flex-end}}@media screen and (max-width: 1440px), (max-device-width: 1440px){.rooms .descr__item{position:relative;padding-right:12px;margin-right:8px;-webkit-transition:all 300ms;-o-transition:all 300ms;transition:all 300ms}.rooms .descr__item::before{position:absolute;content:"";top:50%;right:0;width:4px;height:4px;background-color:rgba(0,0,0,0.2);border-radius:50%;-webkit-transform:translateY(-50%);-ms-transform:translateY(-50%);transform:translateY(-50%)}.rooms .descr__item:last-child::before{display:none}}.rooms .splide__arrows{display:-webkit-box;display:-ms-flexbox;display:flex;-webkit-box-pack:center;-ms-flex-pack:center;justify-content:center;margin-top:20px}@media screen and (max-width: 1440px), (max-device-width: 1440px){.rooms .splide__arrows{margin-top:30px}}.rooms .splide__arrow{margin:0 10px;padding:20px;border:1px solid #fff;background-color:#fff}.rooms .splide__arrow:hover{border:1px solid #000}.rooms .splide__arrow--prev,.rooms .splide__arrow--next{background-image:url(../images/icons/arrow.svg);background-repeat:no-repeat;background-position:center}.rooms .splide__arrow--prev{-webkit-transform:rotate(180deg);-ms-transform:rotate(180deg);transform:rotate(180deg)}.rooms .splide__arrow:disabled{opacity:0.5}.rooms .splide__arrow:hover:disabled{opacity:0.5;border:1px solid transparent;cursor:not-allowed}.services{display:-webkit-box;display:-ms-flexbox;display:flex;-webkit-box-orient:vertical;-webkit-box-direction:normal;-ms-flex-direction:column;flex-direction:column;-webkit-box-pack:center;-ms-flex-pack:center;justify-content:center}.services .services__title{padding-bottom:100px;display:-webkit-box;display:-ms-flexbox;display:flex;-webkit-box-align:start;-ms-flex-align:start;align-items:flex-start;-webkit-box-pack:justify;-ms-flex-pack:justify;justify-content:space-between}@media screen and (max-width: 1440px), (max-device-width: 1440px){.services .services__title{padding:60px 0 50px}}.services .services__descr{max-width:445px}.services .services__content{-webkit-column-gap:30px;-moz-column-gap:30px;column-gap:30px;-webkit-column-count:3;-moz-column-count:3;column-count:3}.services .services__list{padding-bottom:26px;max-width:350px;-webkit-column-break-inside:avoid;-moz-column-break-inside:avoid;break-inside:avoid-column}.services .services__list:last-child{padding:0}.services .list-heading{font-weight:500;font-size:16px;line-height:29px;margin-bottom:4px}.conditions{display:-webkit-box;display:-ms-flexbox;display:flex;-webkit-box-pack:justify;-ms-flex-pack:justify;justify-content:space-between;-webkit-box-align:center;-ms-flex-align:center;align-items:center}.conditions .conditions__inner{display:-webkit-box;display:-ms-flexbox;display:flex;-webkit-box-align:start;-ms-flex-align:start;align-items:flex-start;-webkit-box-pack:justify;-ms-flex-pack:justify;justify-content:space-between;width:100%}.conditions .conditions__content{display:-webkit-box;display:-ms-flexbox;display:flex;-webkit-box-orient:vertical;-webkit-box-direction:normal;-ms-flex-direction:column;flex-direction:column;-webkit-box-align:center;-ms-flex-align:center;align-items:center;gap:60px 0;width:100%}.conditions .conditions__title{-ms-flex-item-align:start;align-self:flex-start;margin-bottom:20px}.conditions .conditions__content,.conditions .conditions__descr{max-width:445px}.conditions .conditions__descr p{margin-bottom:24px}.conditions .conditions__descr p:last-child{margin-bottom:0}.conditions .conditions-time,.conditions .conditions-old{display:-webkit-box;display:-ms-flexbox;display:flex;-webkit-box-align:center;-ms-flex-align:center;align-items:center;-ms-flex-pack:distribute;justify-content:space-around;width:100%}.conditions .desc-box span{font-weight:700;font-size:24px;line-height:43px}.conditions .desc-box span .time-sub{font-weight:700;font-size:14px;line-height:25px;text-decoration:underline}.feedback{background-image:url(../images/feedback-bg.jpg);background-repeat:no-repeat;background-position:center;background-size:cover}.feedback .feedback__wrapper{margin:0 auto;display:-webkit-box;display:-ms-flexbox;display:flex;-webkit-box-align:center;-ms-flex-align:center;align-items:center;-webkit-box-pack:center;-ms-flex-pack:center;justify-content:center;max-width:1110px;height:100%}.feedback .feedback__inner{display:-webkit-box;display:-ms-flexbox;display:flex;-webkit-box-align:start;-ms-flex-align:start;align-items:flex-start;-webkit-box-pack:justify;-ms-flex-pack:justify;justify-content:space-between;width:100%}.feedback .feedback__request,.feedback .feedback__contacts{display:-webkit-box;display:-ms-flexbox;display:flex;-webkit-box-orient:vertical;-webkit-box-direction:normal;-ms-flex-direction:column;flex-direction:column;width:100%;max-width:445px}.feedback .feedback__title{margin-bottom:50px;font-weight:500;font-size:18px;line-height:32px;color:#fff}.feedback .feedback__form{display:-webkit-box;display:-ms-flexbox;display:flex;-webkit-box-orient:vertical;-webkit-box-direction:normal;-ms-flex-direction:column;flex-direction:column;gap:25px;max-width:350px}.feedback .feedback__form-btn{margin-top:25px}.feedback .feedback__privacy{font-size:10px;line-height:14px;color:#ccc}.feedback .feedback__privacy a{color:#ccc;text-decoration:underline}.feedback .feedback__privacy a:hover{color:#fff}.feedback .contacts__content,.feedback .contacts__content a{color:#fff;font-style:normal}.feedback .contacts__content p,.feedback .contacts__content a p{margin-bottom:30px}.feedback .contacts__content p:last-child,.feedback .contacts__content a p:last-child{margin-bottom:0}.feedback .contacts__title{font-weight:500;font-size:16px;line-height:29px}.feedback .contacts__social{margin-top:50px}

diff --git a/scss/style.scss b/scss/style.scss
@@ -309,7 +309,29 @@
     }
   }
   .location__map {
+    position: relative;
     max-height: 400px;
+    .location__map-target {
+      position: absolute;
+      content: "";
+      top: 185px;
+      left: 460px;
+      font-size: 10px;
+      line-height: 14px;
+      color: $color-light-xl;
+      &::before {
+        position: absolute;
+        content: "";
+        bottom: 75%;
+        right: 90%;
+        width: 48px;
+        height: 48px;
+        background-image: url(../images/icons/location.svg);
+        background-repeat: no-repeat;
+        background-position: center;
+        background-size: cover;
+      }
+    }
   }
 }
 

diff --git a/index.html b/index.html
@@ -180,6 +180,10 @@
         </div>
       </div>
       <div class="location__map">
+        <a class="location__map-target" href="https://goo.gl/maps/smF7fpBrB9HBBdxp9" title="Открыть на Google Карте" target="_blank">
+          MajorDom Hostel<br>
+          улица Рыбацкий Причал, 1
+        </a>
         <img src="images/map.jpg" alt="">
       </div>
     </section>
